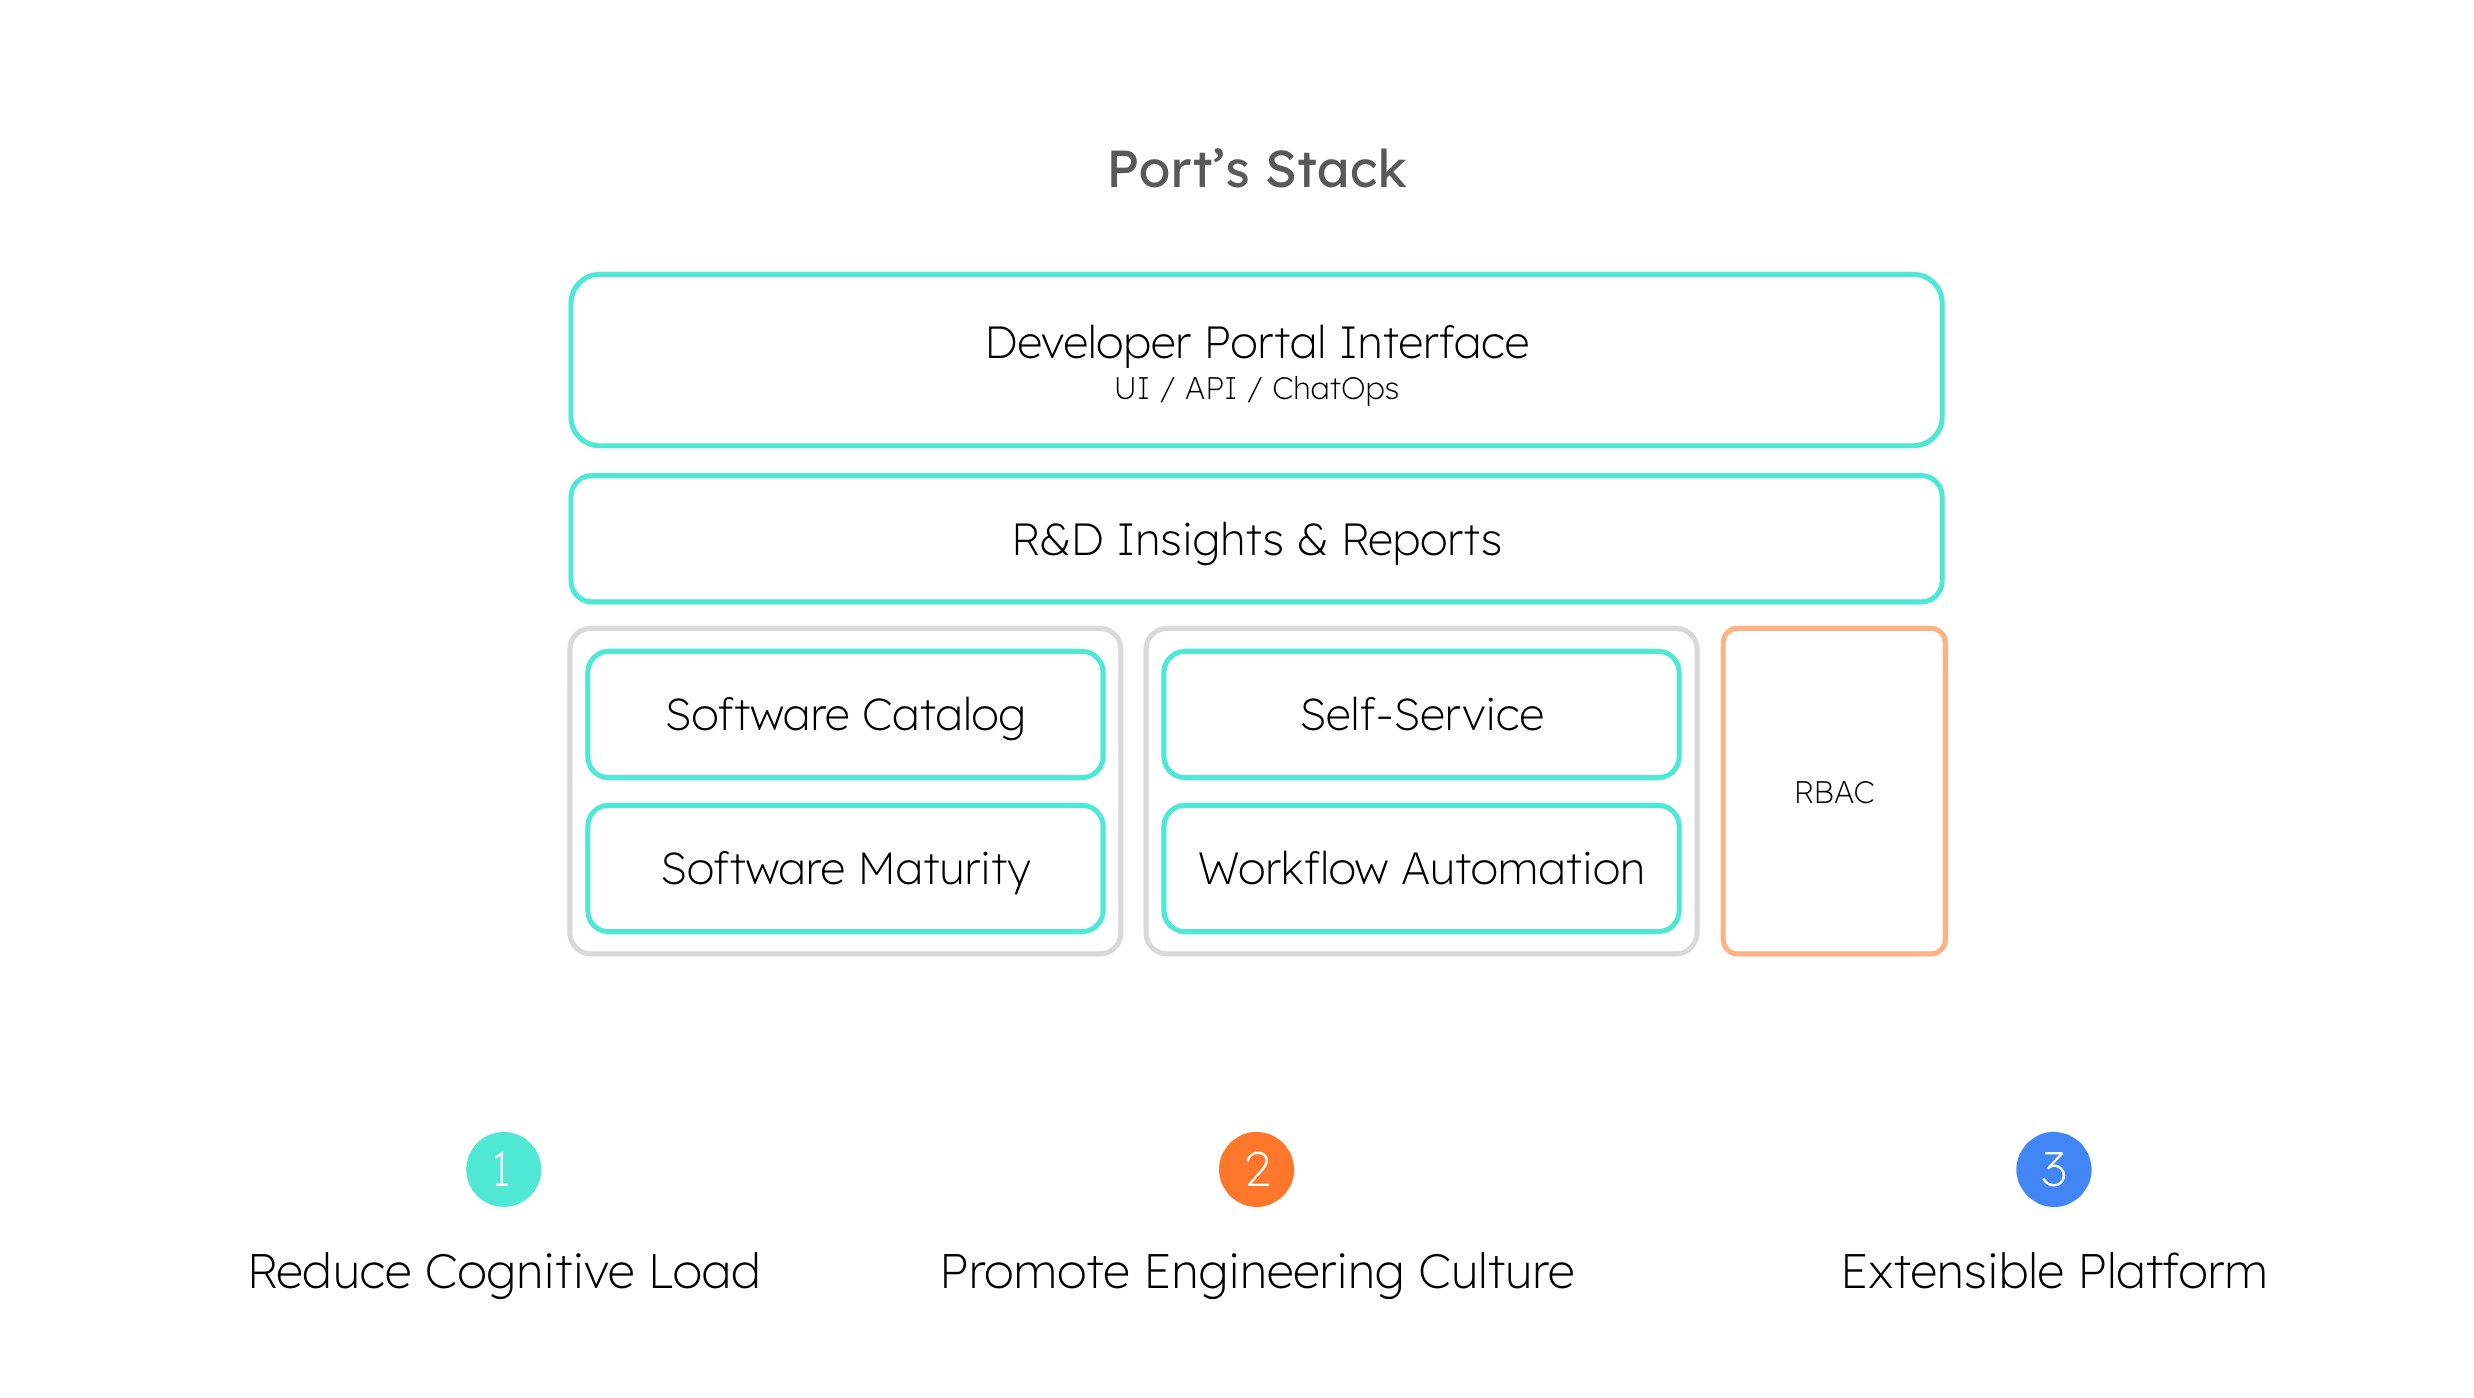
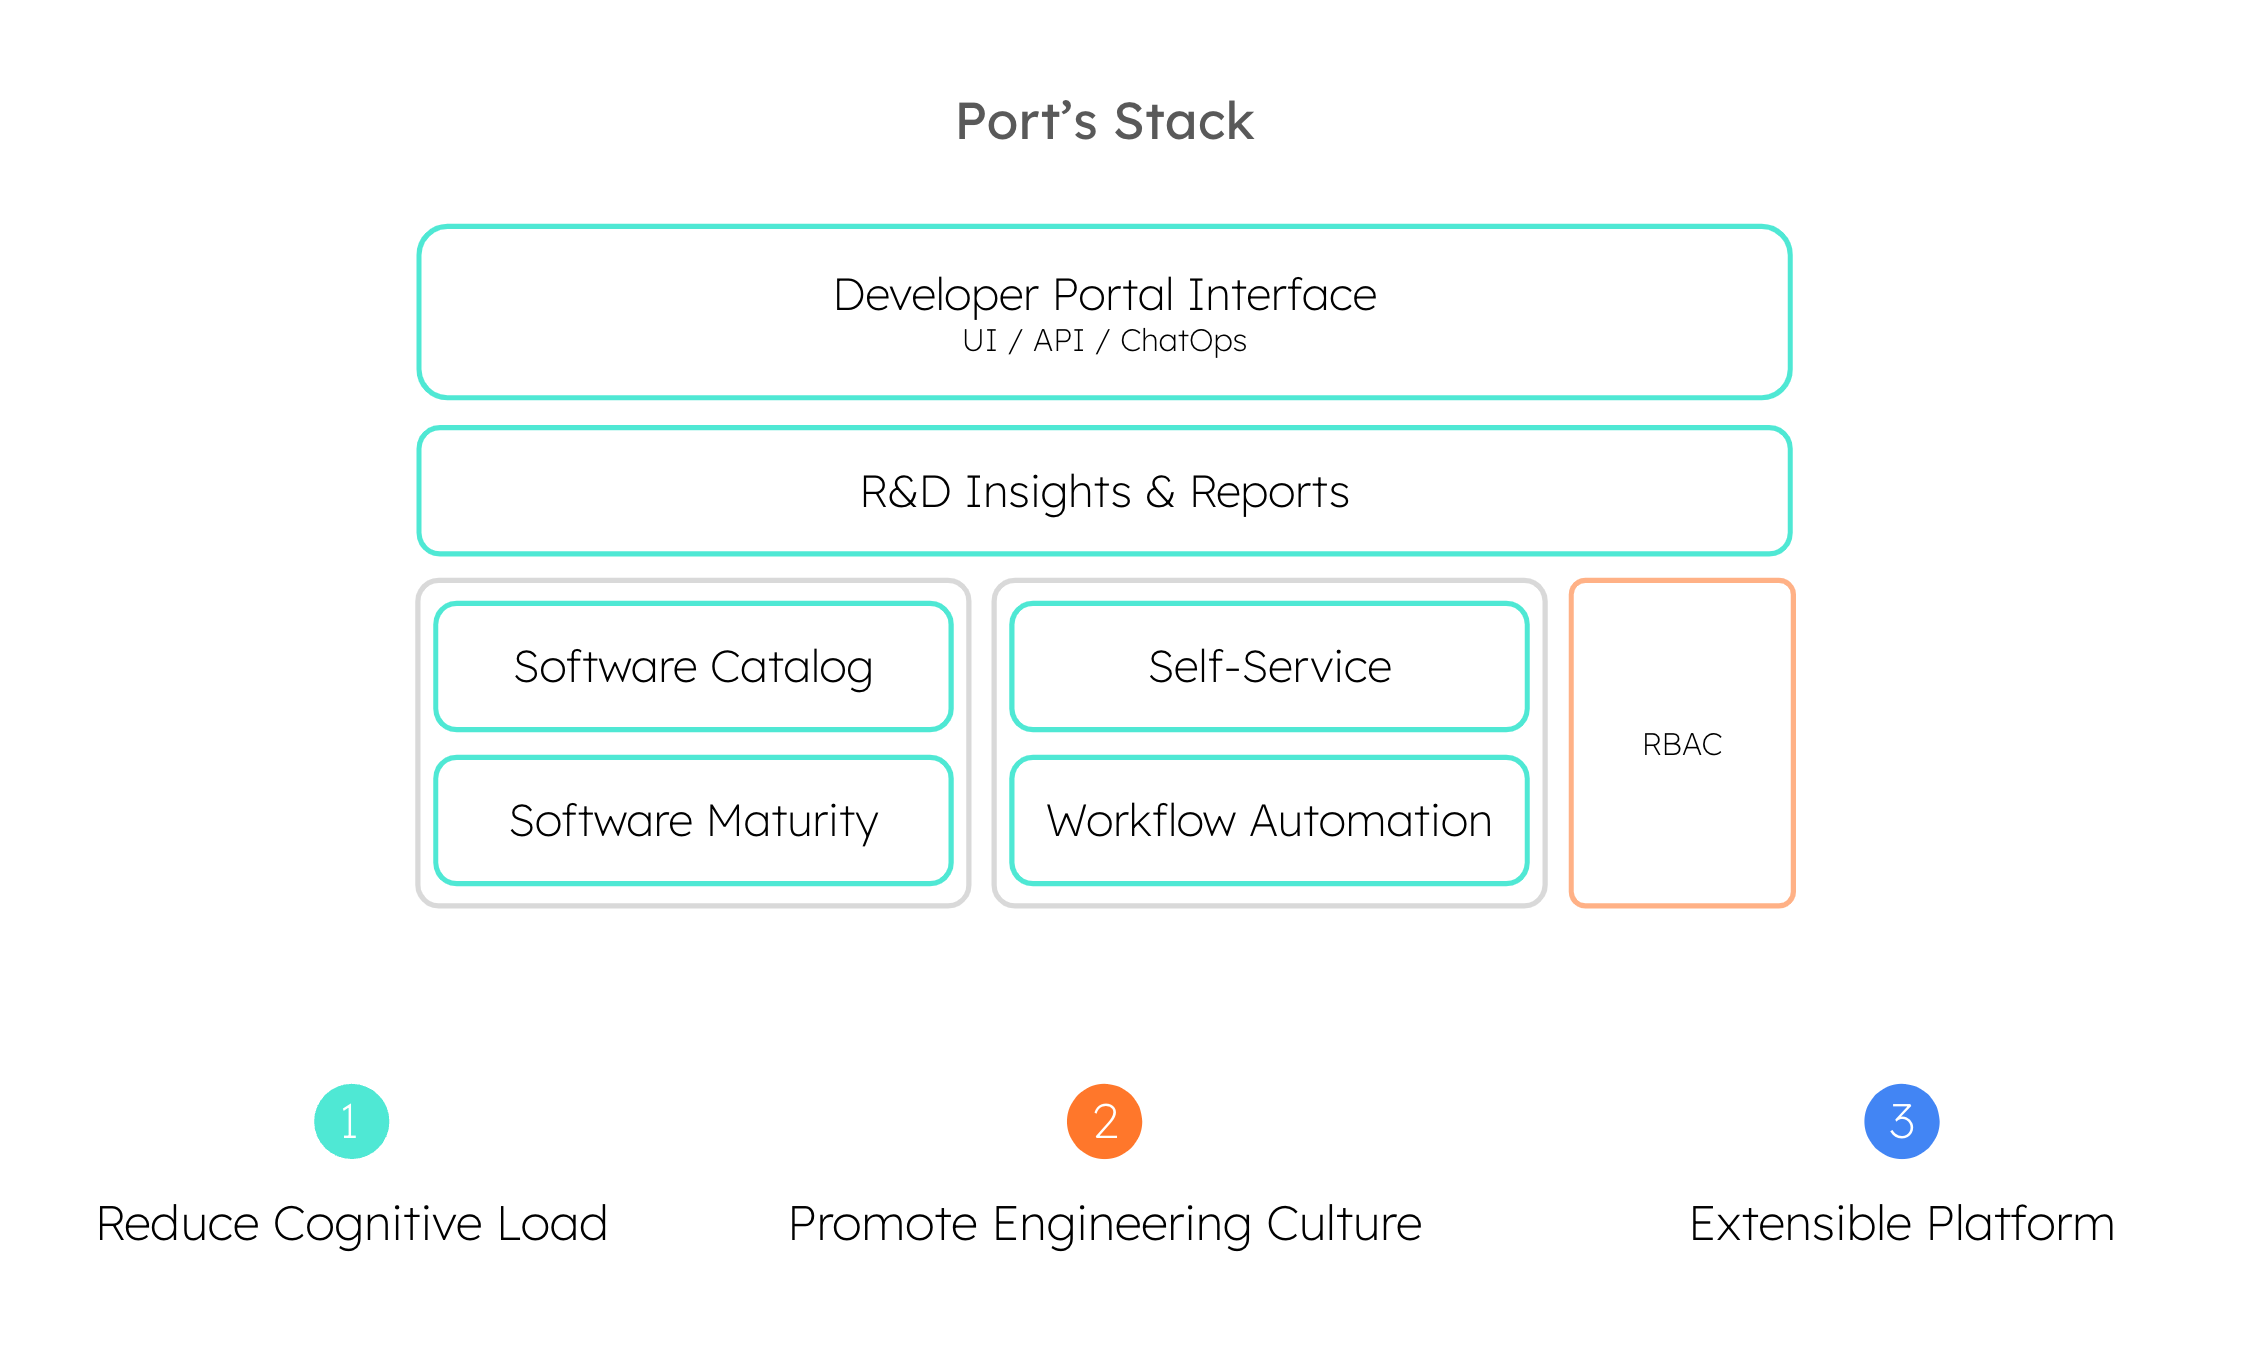
get rid of usage methods page

diff --git a/src/css/custom.css b/src/css/custom.css
@@ -282,10 +282,6 @@ html[data-theme="dark"] details details  {
   content: url('/static/img/sidebar-icons/main-menu/sso-and-rbac.svg');
 }
 
-.sidebar-menu-usage-methods .menu__link::before {
-  content: url('/static/img/sidebar-icons/main-menu/usage-methods.svg');
-}
-
 .sidebar-menu-integrations-index .menu__link::before {
   content: url('/static/img/sidebar-icons/main-menu/integrations-index.svg');
 }

diff --git a/docs/build-your-software-catalog/sync-data-to-catalog/cloud-providers/aws/installations/installation.md b/docs/build-your-software-catalog/sync-data-to-catalog/cloud-providers/aws/installations/installation.md
@@ -215,8 +215,8 @@ The AWS integration uses the following AWS infrastructure:
 
 | Variable                                             | Description                                                                                                                                                                                                                                                          |
 | ---------------------------------------------------- | -------------------------------------------------------------------------------------------------------------------------------------------------------------------------------------------------------------------------------------------------------------------- |
-| `OCEAN__PORT__CLIENT_ID`                             | [The client ID of the Port integration](https://docs.getport.io/configuration-methods/#:~:text=To%20get%20your%20Port%20API,API).                                                                                                                                    |
-| `OCEAN__PORT__CLIENT_SECRET`                         | [The client secret of the Port integration](https://docs.getport.io/configuration-methods/#:~:text=To%20get%20your%20Port%20API,API).                                                                                                                                |
+| `OCEAN__PORT__CLIENT_ID`                             | Your Port client ID. |
+| `OCEAN__PORT__CLIENT_SECRET`                         | Your Port client secret. |
 | `OCEAN__PORT__BASE_URL`                              | Your Port API URL - `https://api.getport.io` for EU, `https://api.us.getport.io` for US                                                                                                                                                                              |
 | `OCEAN__INTEGRATION__CONFIG__AWS_ACCESS_KEY_ID`      | [The AWS Access Key ID of the IAM user](https://docs.aws.amazon.com/IAM/latest/UserGuide/id_users_create.html).                                                                                                                                                      |
 | `OCEAN__INTEGRATION__CONFIG__AWS_SECRET_ACCESS_KEY`  | [The AWS Secret Access Key of the IAM user](https://docs.aws.amazon.com/IAM/latest/UserGuide/id_users_create.html).                                                                                                                                                  |

diff --git a/docs/port-overview.md b/docs/port-overview.md
@@ -23,9 +23,11 @@ The [Getting started](/quickstart) page will walk you through the different comp
 
 Welcome to Port! :wave:
 
-Internal developer portals need a context-rich software catalog with maturity and quality scorecards. They also must support comprehensive developer self-service actions. Port has it all.
+Port is an internal developer portal solution, allowing you to create compelling developer experiences using the building blocks you need, according to your stack, developer personas and culture.
 
-![Developer Platform complete vision](../static/img/port-overview/port-stack.png)
+<center>
+<img src="/img/port-overview/port-stack.png" width="80%" border='1px' />
+</center>
 
 ### Port product pillars
 
@@ -58,3 +60,11 @@ With Port, you can set up automations to automatically respond to events from yo
 R&D Insights & Reports is a pillar of port that provides data-driven insights and analytical reports on the development process. It allows teams, developers, and management to make informed decisions based on metrics, trends, and usage patterns to improve the development process, optimize performance, and reduce cost.
 
 [Insights & Reports live demo](https://demo.getport.io/svp_engineering) 🎬
+
+## Usage methods
+
+Port is a flexible platform that allows you to build, configure, use and delete components of your portal using several methods:
+
+- [Web UI](https://app.getport.io).
+- [API](/api-reference/port-api).
+- IaC - [Terraform provider](https://registry.terraform.io/providers/port-labs/port-labs/latest) and [Pulumi provider](https://www.pulumi.com/registry/packages/port/).

diff --git a/docs/build-your-software-catalog/sync-data-to-catalog/cloud-providers/azure/installation.md b/docs/build-your-software-catalog/sync-data-to-catalog/cloud-providers/azure/installation.md
@@ -397,8 +397,8 @@ You should have the following information ready:
 
 | Variable                                          | Description                                                                                                                           |
 |---------------------------------------------------|---------------------------------------------------------------------------------------------------------------------------------------|
-| `OCEAN__PORT__CLIENT_ID`                          | [The client ID of the Port integration](https://docs.getport.io/configuration-methods/#:~:text=To%20get%20your%20Port%20API,API).     |
-| `OCEAN__PORT__CLIENT_SECRET`                      | [The client secret of the Port integration](https://docs.getport.io/configuration-methods/#:~:text=To%20get%20your%20Port%20API,API). |
+| `OCEAN__PORT__CLIENT_ID`                          | Your Port client ID.     |
+| `OCEAN__PORT__CLIENT_SECRET`                      | Your Port client secret. |
 | `OCEAN__PORT__BASE_URL`                           | Your Port API URL - `https://api.getport.io` for EU, `https://api.us.getport.io` for US                                               |
 | `OCEAN__INTEGRATION__CONFIG__AZURE_CLIENT_ID`     | The client ID of the Azure App Registration.                                                                                          |
 | `OCEAN__INTEGRATION__CONFIG__AZURE_CLIENT_SECRET` | The client secret of the Azure App Registration.                                                                                      |
